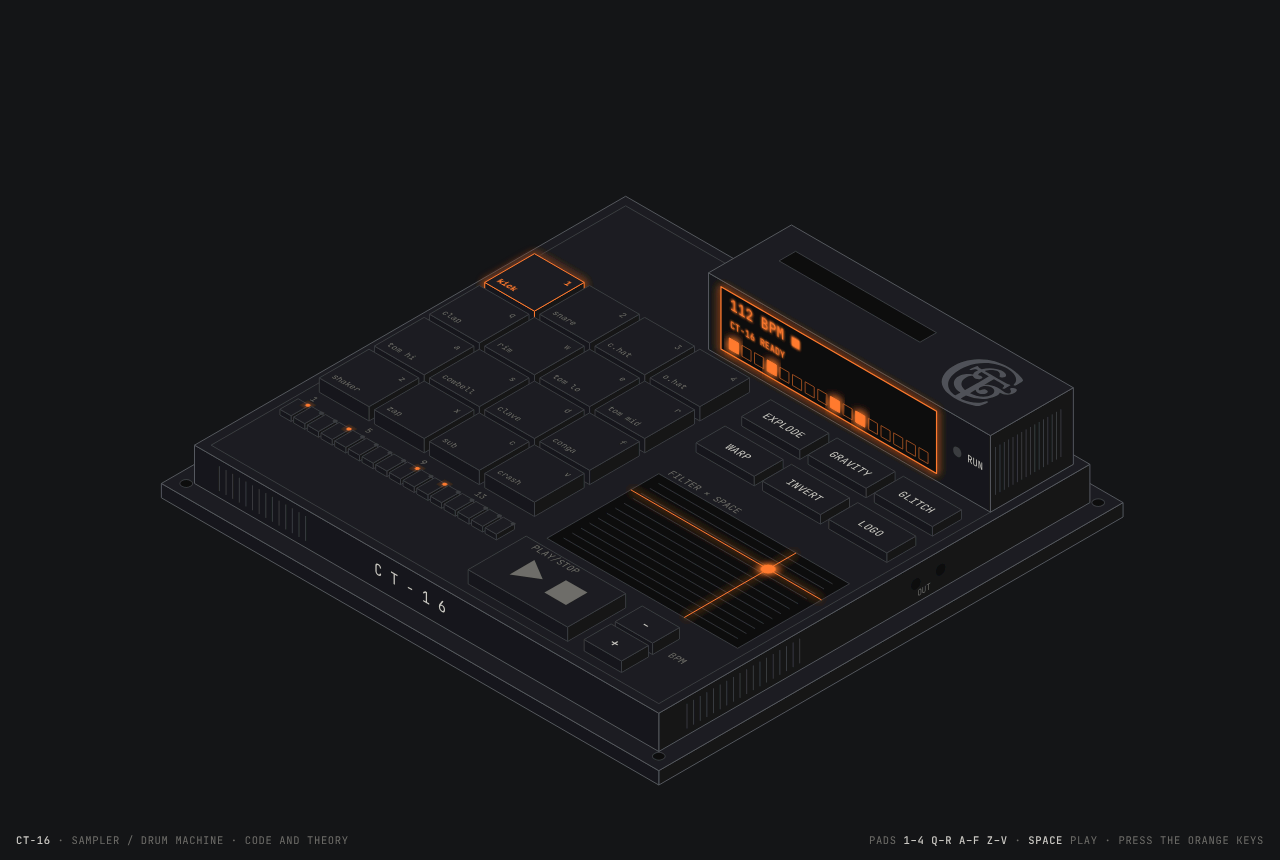
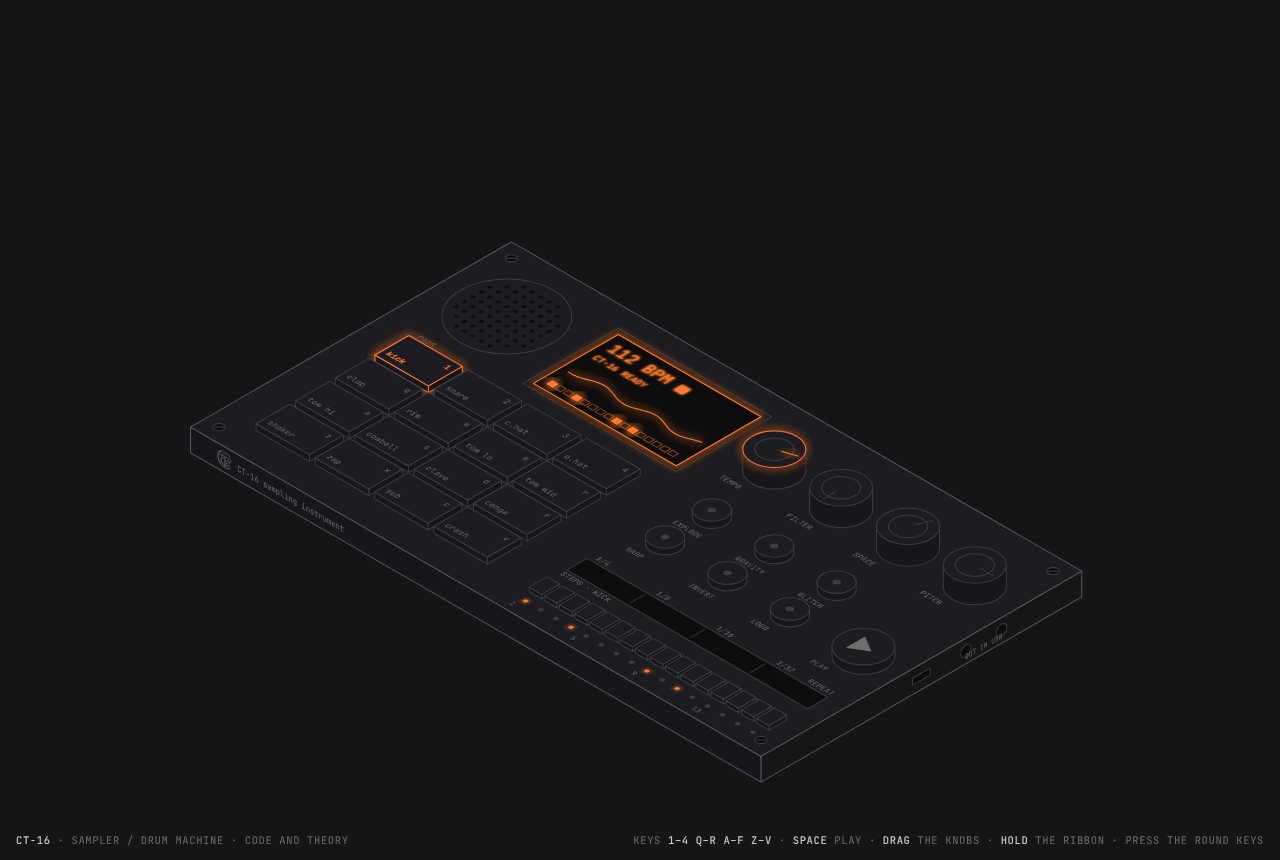
Redesign CT-16 as a thin slab instrument
Four large cylindrical encoders (tempo, filter, space, pitch) with drag
control, flat key grid, inset screen with live oscilloscope, dot-field
speaker, round experimental keys, a note-repeat ribbon and a separate
step row. Same sounds and experimental functions.

Claude-Session: https://claude.ai/code/session_016YEvjY8Sb1Rc6rgUfMqNYL

diff --git a/ct-16/index.html b/ct-16/index.html
@@ -56,14 +56,16 @@ polygon,polyline,line,path.ln,rect.ln{stroke:var(--line);stroke-width:1;vector-e
     </defs>
     <g id="root" filter="url(#glitch)"><g id="scene"></g></g>
   </svg>
-  <div class="foot"><span><b>CT-16</b> · Sampler / drum machine · Code and Theory</span><span id="hint">Pads <b>1–4 Q–R A–F Z–V</b> · <b>Space</b> play · Press the orange keys</span></div>
+  <div class="foot"><span><b>CT-16</b> · Sampler / drum machine · Code and Theory</span><span id="hint">Keys <b>1–4 Q–R A–F Z–V</b> · <b>Space</b> play · <b>drag</b> the knobs · <b>hold</b> the ribbon · press the round keys</span></div>
 </div>
 
 <script>
 (function(){
-var C=0.8660254, S=0.5, scene=document.getElementById("scene");
+var C=0.8660254, S=0.5, RX=1.2247449, RY=0.7071068, scene=document.getElementById("scene"), svg=document.getElementById("dev");
+svg.setAttribute("viewBox","-72 -52 194 160");
 function P(x,y,z){return [(x-y)*C,(x+y)*S-z]}
-function pts(a){return a.map(function(p){var q=P(p[0],p[1],p[2]);return q[0].toFixed(2)+","+q[1].toFixed(2)}).join(" ")}
+function f2(n){return n.toFixed(2)}
+function pts(a){return a.map(function(p){var q=P(p[0],p[1],p[2]);return f2(q[0])+","+f2(q[1])}).join(" ")}
 function poly(a,cls,extra){return '<polygon class="'+(cls||"")+'" points="'+pts(a)+'" '+(extra||"")+'/>'}
 function box(x,y,z,w,d,h,cls,extra){
   return '<g class="'+(cls||"")+'" '+(extra||"")+'>'+
@@ -71,149 +73,138 @@ function box(x,y,z,w,d,h,cls,extra){
     poly([[x,y+d,z+h],[x+w,y+d,z+h],[x+w,y+d,z],[x,y+d,z]],"ff")+
     poly([[x,y,z+h],[x+w,y,z+h],[x+w,y+d,z+h],[x,y+d,z+h]],"ft")+'</g>';
 }
-function mTop(x,y,z,k){var q=P(x,y,z);return "matrix("+(C*k)+" "+(S*k)+" "+(-C*k)+" "+(S*k)+" "+q[0].toFixed(2)+" "+q[1].toFixed(2)+")"}
-function mFront(x,y,z,k){var q=P(x,y,z);return "matrix("+(C*k)+" "+(S*k)+" 0 "+k+" "+q[0].toFixed(2)+" "+q[1].toFixed(2)+")"}
-function mRight(x,y,z,k){var q=P(x,y,z);return "matrix("+(C*k)+" "+(-S*k)+" 0 "+k+" "+q[0].toFixed(2)+" "+q[1].toFixed(2)+")"}
+/* vertical cylinder: side band, then top ellipse */
+function cyl(cx,cy,z,r,h,cls,extra,topCls){
+  var b=P(cx,cy,z), X=b[0], Yb=b[1], Yt=Yb-h, rx=RX*r, ry=RY*r;
+  return '<g class="'+(cls||"")+'" '+(extra||"")+'>'+
+    '<path class="ln ff" d="M'+f2(X-rx)+' '+f2(Yt)+'L'+f2(X-rx)+' '+f2(Yb)+'A'+f2(rx)+' '+f2(ry)+' 0 0 0 '+f2(X+rx)+' '+f2(Yb)+'L'+f2(X+rx)+' '+f2(Yt)+'Z" style="stroke:var(--line);vector-effect:non-scaling-stroke"/>'+
+    '<ellipse class="ln '+(topCls||"ft")+'" cx="'+f2(X)+'" cy="'+f2(Yt)+'" rx="'+f2(rx)+'" ry="'+f2(ry)+'" style="stroke:var(--line);vector-effect:non-scaling-stroke"/></g>';
+}
+function ell(cx,cy,z,r,cls,style){var b=P(cx,cy,z);return '<ellipse class="'+cls+'" cx="'+f2(b[0])+'" cy="'+f2(b[1])+'" rx="'+f2(RX*r)+'" ry="'+f2(RY*r)+'" style="'+(style||"")+'"/>'}
+function mTop(x,y,z,k){var q=P(x,y,z);return "matrix("+(C*k)+" "+(S*k)+" "+(-C*k)+" "+(S*k)+" "+f2(q[0])+" "+f2(q[1])+")"}
+function mFront(x,y,z,k){var q=P(x,y,z);return "matrix("+(C*k)+" "+(S*k)+" 0 "+k+" "+f2(q[0])+" "+f2(q[1])+")"}
+function mRight(x,y,z,k){var q=P(x,y,z);return "matrix("+(C*k)+" "+(-S*k)+" 0 "+k+" "+f2(q[0])+" "+f2(q[1])+")"}
 function tTop(x,y,z,s,size,anchor,cls){return '<text transform="'+mTop(x,y,z,size/10)+'" font-size="10" text-anchor="'+(anchor||"start")+'" class="'+(cls||"lbl")+'">'+s+'</text>'}
 function tFront(x,y,z,s,size,anchor,cls){return '<text transform="'+mFront(x,y,z,size/10)+'" font-size="10" text-anchor="'+(anchor||"start")+'" class="'+(cls||"lbl")+'">'+s+'</text>'}
 function tRight(x,y,z,s,size,anchor,cls){return '<text transform="'+mRight(x,y,z,size/10)+'" font-size="10" text-anchor="'+(anchor||"start")+'" class="'+(cls||"lbl")+'">'+s+'</text>'}
-function line(a,b,cls){var p=P(a[0],a[1],a[2]),q=P(b[0],b[1],b[2]);return '<line class="'+(cls||"vent")+'" x1="'+p[0].toFixed(2)+'" y1="'+p[1].toFixed(2)+'" x2="'+q[0].toFixed(2)+'" y2="'+q[1].toFixed(2)+'"/>'}
-function dotTop(x,y,z,r,cls){return '<circle class="'+cls+'" r="'+r+'" transform="'+mTop(x,y,z,1)+'"/>'}
-function dotFront(x,y,z,r,cls){return '<circle class="'+cls+'" r="'+r+'" transform="'+mFront(x,y,z,1)+'"/>'}
-function dotRight(x,y,z,r,cls){return '<circle class="'+cls+'" r="'+r+'" transform="'+mRight(x,y,z,1)+'"/>'}
+function line(a,b,cls){var p=P(a[0],a[1],a[2]),q=P(b[0],b[1],b[2]);return '<line class="'+(cls||"vent")+'" x1="'+f2(p[0])+'" y1="'+f2(p[1])+'" x2="'+f2(q[0])+'" y2="'+f2(q[1])+'"/>'}
 
-/* ---------- layout (units) ---------- */
-var BW=120, BD=112, BODY={x:4,y:4,w:112,d:104,z:3,h:8}, TOPZ=11;
-var HOUSE={x:46,y:6,w:68,d:20,z:TOPZ,h:16};
-var PAD={x:8,y:30,s:12,g:1.3,h:3};
+/* ---------- object: a thin slab ---------- */
+var W=128, D=72, H=5, Z=H;
+var KEYS0={x:8,y:31,w:12,d:7.6,g:1.3,h:1.3};
 var NAMES=["kick","snare","c.hat","o.hat","clap","rim","tom lo","tom mid","tom hi","cowbell","clave","conga","shaker","zap","sub","crash"];
 var KEYS="1234qwerasdfzxcv";
+var ENC=[{x:74,lbl:"TEMPO"},{x:89,lbl:"FILTER"},{x:104,lbl:"SPACE"},{x:119,lbl:"PITCH"}], ENCY=15, ENCR=5;
 var FX=[["EXPLODE","explode"],["GRAVITY","gravity"],["GLITCH","glitch"],["WARP","warp"],["INVERT","invert"],["LOGO","logo"]];
-var XY={x:66,y:58,w:46,d:27};
+var SCR={x:30,y:6,w:32,d:19}, RIB={x:70,y:53,w:54,d:4.5}, STEPS={x:70,y:62,w:2.8,g:.6};
 
 /* ---------- state ---------- */
 var st={bpm:112,playing:false,step:-1,sel:0,flash:new Array(16).fill(0),pz:new Array(16).fill(0),pv:new Array(16).fill(0),
-  explode:0,explodeT:0,glitch:0,warp:0,logo:0,xy:[.72,.25],xyOn:false,fxOn:{},msg:"CT-16 READY",msgT:0,dirty:true};
+  explode:0,glitch:0,warp:0,logo:0,enc:[.433,.82,.25,.5],rib:-1,fxOn:{},msg:"CT-16 READY",msgT:performance.now(),dirty:true,scope:null};
 var pat=NAMES.map(function(){return new Array(16).fill(false)});
 [[0,[0,3,8,10]],[1,[4,12]],[2,[0,2,4,6,8,10,12,14]],[3,[14]],[4,[12]],[5,[7]],[14,[0,11]],[13,[15]]].forEach(function(r){r[1].forEach(function(s){pat[r[0]][s]=true})});
 
-/* ---------- drawing ---------- */
 function render(){
-  var e=ease(st.explode), out=[];
-  var off={house:30*e,pads:15*e,fx:21*e,steps:9*e,play:17*e,xy:6*e,body:0};
-  // base plate + screws
-  out.push(box(0,0,0,BW,BD,3,"hi"));
-  [[3,3],[BW-3,3],[3,BD-3],[BW-3,BD-3]].forEach(function(p){out.push(dotTop(p[0],p[1],3,1.1,"deep"));out.push('<circle class="ln" fill="none" r="1.1" transform="'+mTop(p[0],p[1],3,1)+'" style="stroke:var(--line);vector-effect:non-scaling-stroke"/>')});
-  // body
-  out.push(box(BODY.x,BODY.y,BODY.z,BODY.w,BODY.d,BODY.h,"hi"));
-  for(var i=0;i<18;i++)out.push(line([BODY.x+BODY.w,BODY.y+70+i*1.6,4.4],[BODY.x+BODY.w,BODY.y+70+i*1.6,9.6]));
-  for(i=0;i<14;i++)out.push(line([BODY.x+6+i*1.6,BODY.y+BODY.d,4.4],[BODY.x+6+i*1.6,BODY.y+BODY.d,9.6]));
-  out.push(tFront(56,BODY.y+BODY.d,6,"C T - 1 6",3.2,"middle","lbl-ink"));
-  out.push(dotRight(BODY.x+BODY.w,40,7,1.1,"deep")+dotRight(BODY.x+BODY.w,46,7,1.1,"deep"));
-  out.push(tRight(BODY.x+BODY.w,44,4.2,"OUT",1.8,"middle"));
-  // top inset frame
-  out.push(poly([[BODY.x+2,BODY.y+2,TOPZ],[BODY.x+BODY.w-2,BODY.y+2,TOPZ],[BODY.x+BODY.w-2,BODY.y+BODY.d-2,TOPZ],[BODY.x+2,BODY.y+BODY.d-2,TOPZ]],"ft",'style="fill:none"'));
-
-  // housing
-  var hz=HOUSE.z+off.house, H=HOUSE;
-  out.push(box(H.x,H.y,hz,H.w,H.d,H.h,"hi"));
-  out.push(poly([[H.x+6,H.y+5,hz+H.h],[H.x+40,H.y+5,hz+H.h],[H.x+40,H.y+9,hz+H.h],[H.x+6,H.y+9,hz+H.h]],"deep"));
-  out.push('<use href="#ctlogo" class="logo-print" transform="'+mTop(H.x+49,H.y+3.5,hz+H.h,13/874)+'"/>');
-  for(i=0;i<16;i++)out.push(line([H.x+H.w,H.y+3+i*1.05,hz+3],[H.x+H.w,H.y+3+i*1.05,hz+H.h-3]));
-  // screen
-  var sx=H.x+3,sz=hz+1.6,sw=52,sh=13, sy=H.y+H.d;
-  out.push(poly([[sx,sy,sz+sh],[sx+sw,sy,sz+sh],[sx+sw,sy,sz],[sx,sy,sz]],"deep glow",'style="stroke-width:1.2"'));
+  var e=ease(st.explode), o=[], i;
+  var off={keys:13*e,enc:22*e,btn:17*e,steps:9*e,scr:7*e,rib:5*e,spk:4*e};
+  /* slab */
+  o.push(box(0,0,0,W,D,H,"hi"));
+  [[3.2,3.2],[W-3.2,3.2],[3.2,D-3.2],[W-3.2,D-3.2]].forEach(function(p){o.push(ell(p[0],p[1],Z,1,"ln deep","stroke:var(--line);vector-effect:non-scaling-stroke"));o.push(line([p[0]-.6,p[1]+.6,Z],[p[0]+.6,p[1]-.6,Z]))});
+  /* side details */
+  o.push('<g>'+[18,26].map(function(yy){var b=P(W,yy,2.5);return '<circle class="deep" r="1.2" transform="'+mRight(W,yy,2.5,1)+'" style="stroke:var(--line);vector-effect:non-scaling-stroke"/>'}).join("")+'</g>');
+  o.push(poly([[W,34,3.2],[W,38,3.2],[W,38,1.8],[W,34,1.8]],"deep"));
+  o.push(tRight(W,22,.9,"OUT  IN   USB",1.4,"middle"));
+  o.push('<use href="#ctlogo" class="logo-print" transform="'+mFront(6,D,4.1,3.2/874)+'"/>');
+  o.push(tFront(10.5,D,1.7,"CT-16  sampling instrument",1.6,"start"));
+  /* speaker: dot field in a circle */
+  var sx=14, sy=15, sr=9.5, sz=Z+off.spk;
+  o.push(ell(sx,sy,sz,sr+.8,"ln","fill:none;stroke:var(--line);vector-effect:non-scaling-stroke"));
+  for(var gx=-sr;gx<=sr;gx+=1.9)for(var gy=-sr;gy<=sr;gy+=1.9)if(gx*gx+gy*gy<sr*sr*.92)o.push('<circle class="deep" r=".42" transform="'+mTop(sx+gx,sy+gy,sz,1)+'"/>');
+  /* screen */
+  var z2=Z+off.scr, s=SCR;
+  o.push(poly([[s.x-1.2,s.y-1.2,z2],[s.x+s.w+1.2,s.y-1.2,z2],[s.x+s.w+1.2,s.y+s.d+1.2,z2],[s.x-1.2,s.y+s.d+1.2,z2]],"ft"));
+  o.push(poly([[s.x,s.y,z2],[s.x+s.w,s.y,z2],[s.x+s.w,s.y+s.d,z2],[s.x,s.y+s.d,z2]],"deep glow",'style="stroke-width:1.1"'));
   var m=screenText();
-  out.push(tFront(sx+2.2,sy,sz+sh-3.6,m[0],3.1,"start","glowtext"));
-  out.push(tFront(sx+2.2,sy,sz+sh-7.4,m[1],2,"start","glowtext"));
-  for(i=0;i<16;i++){
-    var bx=sx+2+i*3.05, on=pat[st.sel][i], head=st.playing&&st.step===i;
-    out.push(poly([[bx,sy,sz+3.3],[bx+2.2,sy,sz+3.3],[bx+2.2,sy,sz+1],[bx,sy,sz+1]],"",'style="fill:'+(head?"#FFD7BF":on?"var(--glow)":"none")+';stroke:var(--glow);'+(head||on?"filter:url(#glow)":"opacity:.55")+'"'));
-  }
-  out.push(dotFront(sx+sw+5,sy,sz+7,1,st.playing?"led-on":"led-off"));
-  out.push(tFront(sx+sw+7.4,sy,sz+6.2,"RUN",2.1,"start","lbl-ink"));
-
-  // XY touch surface
-  var xz=TOPZ+.05+off.xy;
-  out.push(poly([[XY.x,XY.y,xz],[XY.x+XY.w,XY.y,xz],[XY.x+XY.w,XY.y+XY.d,xz],[XY.x,XY.y+XY.d,xz]],"deep",'data-act="xy"'));
-  for(i=1;i<13;i++){var yy=XY.y+i*XY.d/13;out.push(line([XY.x+2,yy,xz],[XY.x+XY.w-2,yy,xz],"hatch"))}
-  var cx=XY.x+st.xy[0]*XY.w, cy=XY.y+st.xy[1]*XY.d;
-  out.push(line([cx,XY.y,xz],[cx,XY.y+XY.d,xz],"vent glow"));
-  out.push(line([XY.x,cy,xz],[XY.x+XY.w,cy,xz],"vent glow"));
-  out.push(dotTop(cx,cy,xz,1.3,"led-on"));
-  out.push(tTop(XY.x+1,XY.y-1,xz,"FILTER × SPACE",2,"start"));
-
-  // FX keys
-  FX.forEach(function(f,k){
-    var c=k%3,r=Math.floor(k/3), x=66+c*16, y=31+r*11, z=TOPZ+off.fx+(st.fxOn[f[1]]?-.6:0);
-    out.push(box(x,y,z,14,7,2,st.fxOn[f[1]]?"act":"",'data-act="fx" data-fx="'+f[1]+'"'));
-    out.push(tTop(x+7,y+4.6,z+2,f[0],2.2,"middle",st.fxOn[f[1]]?"glowtext":"lbl-ink"));
-  });
-
-  // play + tempo
-  var pz=TOPZ+off.play;
-  out.push(box(66,90,pz+(st.playing?-.5:0),24,14,3,st.playing?"act":"",'data-act="play"'));
-  out.push('<g transform="'+mTop(72,97,pz+3+(st.playing?-.5:0),1)+'"><polygon points="0,-3 5,0 0,3" style="fill:'+(st.playing?"var(--glow)":"var(--muted)")+';stroke:none"/><rect x="8" y="-2.6" width="5.2" height="5.2" style="fill:var(--muted)"/></g>');
-  out.push(tTop(66,89,pz,"PLAY/STOP",2,"start"));
-  out.push(box(94,90,pz,9,6.5,2.4,"",'data-act="tempo" data-d="-4"'));
-  out.push(box(94,97.5,pz,9,6.5,2.4,"",'data-act="tempo" data-d="4"'));
-  out.push(tTop(98.5,94.6,pz+2.4,"−",3,"middle","lbl-ink"));
-  out.push(tTop(98.5,102.1,pz+2.4,"+",3,"middle","lbl-ink"));
-  out.push(tTop(105,95,pz,"BPM",2,"start"));
-
-  // pads (back to front)
-  for(var r=0;r<4;r++)for(var c=0;c<4;c++){
-    var n=r*4+c, x=PAD.x+c*(PAD.s+PAD.g), y=PAD.y+r*(PAD.s+PAD.g), z=TOPZ+off.pads*(1+r*.25)+st.pz[n], cls=(n===st.sel?"sel":"");
-    out.push(box(x,y,z,PAD.s,PAD.s,PAD.h,cls,'data-act="pad" data-n="'+n+'"'));
-    if(st.flash[n]>0.02)out.push(poly([[x,y,z+PAD.h],[x+PAD.s,y,z+PAD.h],[x+PAD.s,y+PAD.s,z+PAD.h],[x,y+PAD.s,z+PAD.h]],"",'style="fill:var(--glow);opacity:'+(st.flash[n]*.55).toFixed(2)+';stroke:var(--glow);filter:url(#glow);pointer-events:none"'));
-    out.push(tTop(x+1.2,y+PAD.s-1.6,z+PAD.h,NAMES[n],1.75,"start",n===st.sel?"glowtext":"lbl"));
-    out.push(tTop(x+PAD.s-1.2,y+2.8,z+PAD.h,KEYS[n],1.75,"end",n===st.sel?"glowtext":"lbl"));
-  }
-  // steps
-  var tz=TOPZ+off.steps;
-  for(i=0;i<16;i++){
-    var x0=PAD.x+i*3.3, on2=pat[st.sel][i], hd=st.playing&&st.step===i;
-    out.push(box(x0,87,tz,2.7,4.4,1.2,"",'data-act="step" data-s="'+i+'"'));
-    out.push(dotTop(x0+1.35,86,tz,.45,hd?"led-head":on2?"led-on":"led-off"));
-    if(i%4===0)out.push(tTop(x0+.3,84.6,tz,String(i+1),1.8,"start"));
-  }
-
-  // logo hologram
-  if(st.logo>0.01){
-    var L=ease(Math.min(1,st.logo*1.4)), lz=hz+H.h+4+18*L, k=34/874;
-    out.push('<g style="opacity:'+Math.min(1,st.logo*2).toFixed(2)+'">'+
-      '<use href="#ctlogo" transform="'+mFront(H.x+17,H.y+10,lz+34,k)+'" style="fill:var(--glow);fill-opacity:.16;stroke:var(--glow);stroke-width:1.2;vector-effect:non-scaling-stroke;filter:url(#glow)"/>'+
-      poly([[H.x+15,H.y+10,hz+H.h],[H.x+53,H.y+10,hz+H.h],[H.x+53,H.y+10,lz+36],[H.x+15,H.y+10,lz+36]],"",'style="fill:var(--glow);opacity:.05;stroke:none"')+'</g>');
-  }
-  scene.innerHTML=out.join("");
+  o.push(tTop(s.x+1.6,s.y+4.4,z2,m[0],3.2,"start","glowtext"));
+  o.push(tTop(s.x+1.6,s.y+7.6,z2,m[1],1.75,"start","glowtext"));
+  for(i=0;i<16;i++){var bx=s.x+1.6+i*1.8,on=pat[st.sel][i],hd=st.playing&&st.step===i;
+    o.push(poly([[bx,s.y+16.4,z2],[bx+1.3,s.y+16.4,z2],[bx+1.3,s.y+17.6,z2],[bx,s.y+17.6,z2]],"",'style="fill:'+(hd?"#FFD7BF":on?"var(--glow)":"none")+';stroke:var(--glow);'+(hd||on?"filter:url(#glow)":"opacity:.5")+'"'))}
+  var sc=st.scope, pl=[];
+  for(i=0;i<48;i++){var v=sc?sc[i]:Math.sin(i/3+performance.now()/400)*.08;pl.push([s.x+1.6+i*(s.w-3.2)/47,s.y+12.2-Math.max(-3,Math.min(3,v*9)),z2])}
+  o.push('<polyline points="'+pts(pl)+'" style="fill:none;stroke:var(--glow);stroke-width:1.1;vector-effect:non-scaling-stroke;filter:url(#glow)"/>');
+  /* ribbon */
+  var rz=Z+off.rib;
+  o.push(poly([[RIB.x,RIB.y,rz],[RIB.x+RIB.w,RIB.y,rz],[RIB.x+RIB.w,RIB.y+RIB.d,rz],[RIB.x,RIB.y+RIB.d,rz]],"deep",'data-act="rib"'));
+  for(i=1;i<4;i++)o.push(line([RIB.x+i*RIB.w/4,RIB.y+.6,rz],[RIB.x+i*RIB.w/4,RIB.y+RIB.d-.6,rz],"hatch"));
+  ["1/4","1/8","1/16","1/32"].forEach(function(t,k){o.push(tTop(RIB.x+k*RIB.w/4+1,RIB.y-.7,rz,t,1.5,"start"))});
+  o.push(tTop(RIB.x+RIB.w,RIB.y-.7,rz,"REPEAT",1.5,"end"));
+  if(st.rib>=0){var rx=RIB.x+st.rib*RIB.w;o.push(line([rx,RIB.y,rz],[rx,RIB.y+RIB.d,rz],"vent glow"));o.push(poly([[RIB.x,RIB.y,rz],[rx,RIB.y,rz],[rx,RIB.y+RIB.d,rz],[RIB.x,RIB.y+RIB.d,rz]],"",'style="fill:var(--glow);opacity:.12;stroke:none"'))}
+  /* labels printed on the slab */
+  o.push(tTop(8,29.4,Z,"PADS",1.5,"start"));
+  o.push(tTop(70,59.2,Z,"STEPS · "+NAMES[st.sel].toUpperCase(),1.5,"start"));
+  /* raised parts, back to front */
+  var items=[];
+  ENC.forEach(function(en,k){items.push({k:en.x+ENCY,f:function(){
+    var z=Z+off.enc, h=4.2, a=-Math.PI*.75+st.enc[k]*Math.PI*1.5, hot=k===0;
+    var g=cyl(en.x,ENCY,z,ENCR,h,"",'data-act="enc" data-i="'+k+'"',hot?"ft glowring":"ft");
+    g+=ell(en.x,ENCY,z+h,ENCR*.62,"","fill:none;stroke:var(--line);vector-effect:non-scaling-stroke;pointer-events:none");
+    var p0=[en.x+Math.cos(a)*ENCR*.25,ENCY+Math.sin(a)*ENCR*.25,z+h],p1=[en.x+Math.cos(a)*ENCR*.86,ENCY+Math.sin(a)*ENCR*.86,z+h];
+    g+=line(p0,p1,hot?"vent glow":"vent");
+    if(hot)g=g.replace('class="ln ft glowring"','class="ln ft" style="stroke:var(--glow);vector-effect:non-scaling-stroke;filter:url(#glow)"');
+    g+=tTop(en.x-ENCR,ENCY+ENCR+2.6,Z,en.lbl,1.5,"start");
+    return g}})});
+  FX.forEach(function(f,k){var c=k%3,r=Math.floor(k/3),x=76+c*14,y=31+r*10.5;items.push({k:x+y,f:function(){
+    var on=st.fxOn[f[1]], z=Z+off.btn+(on?-.5:0);
+    var g=cyl(x,y,z,3.1,1.4,on?"act":"",'data-act="fx" data-fx="'+f[1]+'"',on?"ft":"ft");
+    if(on)g+=ell(x,y,z+1.4,3.1,"","fill:var(--glow);opacity:.25;stroke:var(--glow);vector-effect:non-scaling-stroke;filter:url(#glow);pointer-events:none");
+    g+=ell(x,y,z+1.4,.7,"",on?"fill:var(--glow);filter:url(#glow)":"fill:var(--line)");
+    g+=tTop(x-3.4,y+5.6,Z,f[0],1.45,"start",on?"glowtext":"lbl");
+    return g}})});
+  items.push({k:120+41,f:function(){var z=Z+off.btn+(st.playing?-.5:0),g=cyl(120,41,z,5,1.8,st.playing?"act":"",'data-act="play"');
+    g+='<g transform="'+mTop(118.2,41,z+1.8,1)+'" style="pointer-events:none"><polygon points="0,-2.2 3.6,0 0,2.2" style="fill:'+(st.playing?"var(--glow)":"var(--muted)")+';stroke:none;'+(st.playing?"filter:url(#glow)":"")+'"/></g>';
+    g+=tTop(115,48.2,Z,"PLAY",1.45,"start",st.playing?"glowtext":"lbl");return g}});
+  for(var r=0;r<4;r++)for(var c=0;c<4;c++)(function(r,c){var n=r*4+c,x=KEYS0.x+c*(KEYS0.w+KEYS0.g),y=KEYS0.y+r*(KEYS0.d+KEYS0.g);items.push({k:x+y+6,f:function(){
+    var z=Z+off.keys*(1+r*.3)+st.pz[n], sel=n===st.sel, g=box(x,y,z,KEYS0.w,KEYS0.d,KEYS0.h,sel?"sel":"",'data-act="pad" data-n="'+n+'"');
+    if(st.flash[n]>.02)g+=poly([[x,y,z+KEYS0.h],[x+KEYS0.w,y,z+KEYS0.h],[x+KEYS0.w,y+KEYS0.d,z+KEYS0.h],[x,y+KEYS0.d,z+KEYS0.h]],"",'style="fill:var(--glow);opacity:'+(st.flash[n]*.55).toFixed(2)+';stroke:var(--glow);filter:url(#glow);pointer-events:none"');
+    g+=tTop(x+1,y+KEYS0.d-1.3,z+KEYS0.h,NAMES[n],1.6,"start",sel?"glowtext":"lbl");
+    g+=tTop(x+KEYS0.w-1,y+2.4,z+KEYS0.h,KEYS[n],1.6,"end",sel?"glowtext":"lbl");
+    return g}})})(r,c);
+  for(i=0;i<16;i++)(function(i){var x=STEPS.x+i*(STEPS.w+STEPS.g);items.push({k:x+STEPS.y,f:function(){
+    var z=Z+off.steps,on=pat[st.sel][i],hd=st.playing&&st.step===i;
+    var g=box(x,STEPS.y,z,STEPS.w,4,.9,"",'data-act="step" data-s="'+i+'"');
+    g+='<circle class="'+(hd?"led-head":on?"led-on":"led-off")+'" r=".45" transform="'+mTop(x+1.4,STEPS.y+6.2,Z,1)+'" style="pointer-events:none"/>';
+    if(i%4===0)g+=tTop(x,STEPS.y+8.6,Z,String(i+1),1.4,"start");
+    return g}})})(i);
+  items.sort(function(a,b){return a.k-b.k}).forEach(function(it){o.push(it.f())});
+  /* logo hologram */
+  if(st.logo>.01){var L=ease(Math.min(1,st.logo*1.4)),lz=Z+6+16*L,k=30/874;
+    o.push('<g style="opacity:'+Math.min(1,st.logo*2).toFixed(2)+';pointer-events:none"><use href="#ctlogo" transform="'+mFront(s.x+1,s.y+s.d/2,lz+30,k)+'" style="fill:var(--glow);fill-opacity:.16;stroke:var(--glow);stroke-width:1.2;vector-effect:non-scaling-stroke;filter:url(#glow)"/>'+
+      poly([[s.x,s.y+s.d/2,Z],[s.x+s.w,s.y+s.d/2,Z],[s.x+s.w,s.y+s.d/2,lz+32],[s.x,s.y+s.d/2,lz+32]],"",'style="fill:var(--glow);opacity:.05;stroke:none"')+'</g>')}
+  scene.innerHTML=o.join("");
 }
 function screenText(){
-  var now=performance.now();
-  var l1=st.bpm+" BPM "+(st.playing?"▶":"■");
-  var n=pat[st.sel].filter(Boolean).length;
-  var l2=(st.msg&&now-st.msgT<1800)?st.msg:"PAD "+NAMES[st.sel].toUpperCase()+" · "+n+" STEPS";
-  return [l1,l2];
+  var now=performance.now(),n=pat[st.sel].filter(Boolean).length;
+  return [st.bpm+" BPM "+(st.playing?"▶":"■"),(st.msg&&now-st.msgT<1800)?st.msg:NAMES[st.sel].toUpperCase()+" · "+n+" STEPS"];
 }
 function ease(t){return t<.5?2*t*t:1-Math.pow(-2*t+2,2)/2}
 function say(m){st.msg=m;st.msgT=performance.now();st.dirty=true}
 
 /* ---------- audio ---------- */
-var AC,master,crush,lp,dly,fb,wet,nb,pitchMul=1;
+var AC,master,crush,lp,dly,fb,wet,nb,ana,anaBuf,pitchMul=1;
+function pm(){return pitchMul*Math.pow(2,Math.round((st.enc[3]-.5)*24)/12)}
 function audio(){
-  if(AC)return AC; var K=window.AudioContext||window.webkitAudioContext; if(!K)return null;
-  AC=new K(); master=AC.createGain(); master.gain.value=.8;
-  crush=AC.createWaveShaper(); crush.curve=curve(0);
-  lp=AC.createBiquadFilter(); lp.type="lowpass"; lp.Q.value=4;
-  dly=AC.createDelay(1); fb=AC.createGain(); wet=AC.createGain();
-  master.connect(crush); crush.connect(lp); lp.connect(AC.destination);
-  lp.connect(dly); dly.connect(fb); fb.connect(dly); dly.connect(wet); wet.connect(AC.destination);
-  nb=AC.createBuffer(1,AC.sampleRate,AC.sampleRate); var d=nb.getChannelData(0); for(var i=0;i<d.length;i++)d[i]=Math.random()*2-1;
-  applyXY(); return AC;
+  if(AC)return AC;var K=window.AudioContext||window.webkitAudioContext;if(!K)return null;
+  AC=new K();master=AC.createGain();master.gain.value=.8;crush=AC.createWaveShaper();crush.curve=curve(0);
+  lp=AC.createBiquadFilter();lp.type="lowpass";lp.Q.value=4;dly=AC.createDelay(1);fb=AC.createGain();wet=AC.createGain();
+  ana=AC.createAnalyser();ana.fftSize=256;anaBuf=new Float32Array(256);
+  master.connect(crush);crush.connect(lp);lp.connect(ana);ana.connect(AC.destination);lp.connect(dly);dly.connect(fb);fb.connect(dly);dly.connect(wet);wet.connect(AC.destination);
+  nb=AC.createBuffer(1,AC.sampleRate,AC.sampleRate);var d=nb.getChannelData(0);for(var i=0;i<d.length;i++)d[i]=Math.random()*2-1;
+  applyEnc();return AC;
 }
 function curve(bits){var n=1024,c=new Float32Array(n);for(var i=0;i<n;i++){var x=i/(n-1)*2-1;c[i]=bits?Math.round(x*bits)/bits:x}return c}
-function env(g,t,a,p,dcy){g.gain.setValueAtTime(.0001,t);g.gain.exponentialRampToValueAtTime(p,t+a);g.gain.exponentialRampToValueAtTime(.0001,t+dcy)}
-function nz(t,dur,type,f,q,p,a){var s=AC.createBufferSource();s.buffer=nb;var b=AC.createBiquadFilter();b.type=type;b.frequency.value=f*pitchMul;if(q)b.Q.value=q;var g=AC.createGain();env(g,t,a||.002,p,dur);s.connect(b);b.connect(g);g.connect(master);s.start(t);s.stop(t+dur+.05)}
-function ton(t,type,f0,f1,dur,p,sw){var o=AC.createOscillator();o.type=type;o.frequency.setValueAtTime(f0*pitchMul,t);if(f1)o.frequency.exponentialRampToValueAtTime(f1*pitchMul,t+(sw||dur));var g=AC.createGain();env(g,t,.003,p,dur);o.connect(g);g.connect(master);o.start(t);o.stop(t+dur+.05)}
+function env(g,t,a,p,dc){g.gain.setValueAtTime(.0001,t);g.gain.exponentialRampToValueAtTime(p,t+a);g.gain.exponentialRampToValueAtTime(.0001,t+dc)}
+function nz(t,dur,type,f,q,p,a){var s=AC.createBufferSource();s.buffer=nb;var b=AC.createBiquadFilter();b.type=type;b.frequency.value=f*pm();if(q)b.Q.value=q;var g=AC.createGain();env(g,t,a||.002,p,dur);s.connect(b);b.connect(g);g.connect(master);s.start(t);s.stop(t+dur+.05)}
+function ton(t,type,f0,f1,dur,p,sw){var k=pm(),o=AC.createOscillator();o.type=type;o.frequency.setValueAtTime(f0*k,t);if(f1)o.frequency.exponentialRampToValueAtTime(f1*k,t+(sw||dur));var g=AC.createGain();env(g,t,.003,p,dur);o.connect(g);g.connect(master);o.start(t);o.stop(t+dur+.05)}
 function voice(n,t){
   if(!AC)return;
   switch(n){
@@ -235,26 +226,41 @@ function voice(n,t){
     case 15:nz(t,1.3,"highpass",3200,0,.32);nz(t,.6,"bandpass",5200,1,.2);break;
   }
 }
-function applyXY(){if(!AC)return;var t=AC.currentTime;lp.frequency.setTargetAtTime(180*Math.pow(100,st.xy[0]),t,.03);var sp=st.xy[1];dly.delayTime.setTargetAtTime(.09+.28*sp,t,.05);fb.gain.setTargetAtTime(.55*sp,t,.05);wet.gain.setTargetAtTime(.6*sp,t,.05)}
+function applyEnc(){
+  st.bpm=Math.round(60+st.enc[0]*120);
+  if(!AC)return;var t=AC.currentTime;
+  lp.frequency.setTargetAtTime(180*Math.pow(100,st.enc[1]),t,.03);
+  var sp=st.enc[2];dly.delayTime.setTargetAtTime(.09+.28*sp,t,.05);fb.gain.setTargetAtTime(.55*sp,t,.05);wet.gain.setTargetAtTime(.6*sp,t,.05);
+}
+function encMsg(k){var v=st.enc[k];return k===0?st.bpm+" BPM":k===1?"FILTER "+Math.round(v*100)+"%":k===2?"SPACE "+Math.round(v*100)+"%":"PITCH "+(Math.round((v-.5)*24)>0?"+":"")+Math.round((v-.5)*24)}
 
 /* ---------- sequencer ---------- */
 var nextT=0,nStep=0,queue=[],timer=null;
 function sd(){return 60/st.bpm/4}
 function sched(){while(nextT<AC.currentTime+.12){var t=nextT;for(var n=0;n<16;n++)if(pat[n][nStep]){voice(n,t);queue.push({t:t,n:n})}queue.push({t:t,step:nStep});nextT+=sd();nStep=(nStep+1)%16}}
 function play(){if(!audio())return;AC.resume();if(st.playing){st.playing=false;clearInterval(timer);queue=[];st.step=-1;st.dirty=true;return}st.playing=true;nStep=0;nextT=AC.currentTime+.05;timer=setInterval(sched,25);sched();st.dirty=true}
-function hit(n,silentSel){if(audio()){AC.resume();voice(n,AC.currentTime)}st.flash[n]=1;if(!silentSel)st.sel=n;st.dirty=true}
+function hit(n,keepSel){if(audio()){AC.resume();voice(n,AC.currentTime)}st.flash[n]=1;if(!keepSel)st.sel=n;st.dirty=true}
+
+/* ---------- ribbon: note repeat ---------- */
+var ribTimer=null;
+function ribbon(v){
+  st.rib=v; var div=[1,2,4,8][Math.min(3,Math.floor(v*4))], ms=60000/st.bpm/div;
+  clearInterval(ribTimer); hit(st.sel,true); ribTimer=setInterval(function(){hit(st.sel,true)},ms); st.dirty=true;
+}
+function ribOff(){clearInterval(ribTimer);ribTimer=null;st.rib=-1;st.dirty=true}
 
 /* ---------- the strange keys ---------- */
+var anims={};
+function anim(key,to,ms){anims[key]={from:st[key],to:to,t0:performance.now(),ms:ms}}
 function fx(id){
-  audio(); if(AC)AC.resume();
-  var on=!st.fxOn[id];
+  audio();if(AC)AC.resume();var on=!st.fxOn[id];
   if(id==="explode"){st.fxOn.explode=on;say(on?"EXPLODED VIEW":"ASSEMBLED");anim("explode",on?1:0,900)}
   if(id==="gravity"){st.fxOn.gravity=true;say("GRAVITY OFF");for(var i=0;i<16;i++){st.pv[i]=14+Math.random()*22;st.pz[i]=Math.max(st.pz[i],.01)}setTimeout(function(){st.fxOn.gravity=false;st.dirty=true},2600)}
   if(id==="glitch"){st.fxOn.glitch=true;st.glitch=1;say("SIGNAL LOST");if(crush)crush.curve=curve(5);
     var k=0,iv=setInterval(function(){hit(Math.floor(Math.random()*16),true);if(++k>10)clearInterval(iv)},70);
     setTimeout(function(){st.fxOn.glitch=false;if(crush)crush.curve=curve(0);st.dirty=true},1500)}
-  if(id==="warp"){st.fxOn.warp=true;say("TAPE STOP");var b0=st.bpm,t0=performance.now();
-    var iv2=setInterval(function(){var k2=(performance.now()-t0)/1600,dn=k2<.5?1-k2*1.5:.25+(k2-.5)*1.5;dn=Math.min(1,Math.max(.25,dn));pitchMul=dn;st.bpm=Math.round(b0*dn);st.warp=Math.sin(Math.min(1,k2)*Math.PI);st.dirty=true;if(k2>=1){clearInterval(iv2);pitchMul=1;st.bpm=b0;st.warp=0;st.fxOn.warp=false}},30)}
+  if(id==="warp"){st.fxOn.warp=true;say("TAPE STOP");var e0=st.enc[0],t0=performance.now();
+    var iv2=setInterval(function(){var k2=(performance.now()-t0)/1600,dn=k2<.5?1-k2*1.5:.25+(k2-.5)*1.5;dn=Math.min(1,Math.max(.25,dn));pitchMul=dn;st.bpm=Math.round((60+e0*120)*dn);st.warp=Math.sin(Math.min(1,k2)*Math.PI);st.dirty=true;if(k2>=1){clearInterval(iv2);pitchMul=1;applyEnc();st.warp=0;st.fxOn.warp=false}},30)}
   if(id==="invert"){var p=document.documentElement.classList.toggle("paper");st.fxOn.invert=p;say(p?"PAPER MODE":"NIGHT MODE")}
   if(id==="logo"){st.fxOn.logo=true;say("CODE AND THEORY");anim("logo",1,700);
     if(AC){var notes=[0,7,12,16,19,24,19,16],t=AC.currentTime;notes.forEach(function(n,i){ton(t+i*.11,"triangle",261.6*Math.pow(2,n/12),0,.35,.22)})}
@@ -262,51 +268,54 @@ function fx(id){
     setTimeout(function(){anim("logo",0,700);st.fxOn.logo=false},4200)}
   st.dirty=true;
 }
-var anims={};
-function anim(key,to,ms){anims[key]={from:st[key],to:to,t0:performance.now(),ms:ms}}
 
 /* ---------- input ---------- */
-var svg=document.getElementById("dev"), dragXY=false;
+var drag=null;
 function toPlane(e,z){var pt=svg.createSVGPoint();pt.x=e.clientX;pt.y=e.clientY;var q=pt.matrixTransform(scene.getScreenCTM().inverse());var a=q.x/C,b=(q.y+z)/S;return [(a+b)/2,(b-a)/2]}
-function setXY(e){var p=toPlane(e,TOPZ+ease(st.explode)*6);st.xy=[Math.min(1,Math.max(0,(p[0]-XY.x)/XY.w)),Math.min(1,Math.max(0,(p[1]-XY.y)/XY.d))];applyXY();st.dirty=true}
+function ribX(e){var p=toPlane(e,Z+ease(st.explode)*5);return Math.min(.999,Math.max(0,(p[0]-RIB.x)/RIB.w))}
 svg.addEventListener("pointerdown",function(e){
   var g=e.target.closest("[data-act]");if(!g)return;var a=g.getAttribute("data-act");
   if(a==="pad")hit(+g.getAttribute("data-n"));
   else if(a==="step"){var s=+g.getAttribute("data-s");pat[st.sel][s]=!pat[st.sel][s];st.dirty=true}
   else if(a==="play")play();
-  else if(a==="tempo"){st.bpm=Math.max(60,Math.min(180,st.bpm+(+g.getAttribute("data-d"))));say(st.bpm+" BPM")}
   else if(a==="fx")fx(g.getAttribute("data-fx"));
-  else if(a==="xy"){audio();dragXY=true;svg.setPointerCapture(e.pointerId);setXY(e)}
+  else if(a==="enc"){audio();drag={kind:"enc",i:+g.getAttribute("data-i"),y:e.clientY,v:st.enc[+g.getAttribute("data-i")],moved:false};svg.setPointerCapture(e.pointerId)}
+  else if(a==="rib"){drag={kind:"rib"};svg.setPointerCapture(e.pointerId);ribbon(ribX(e))}
 });
-svg.addEventListener("pointermove",function(e){if(dragXY)setXY(e)});
-svg.addEventListener("pointerup",function(){dragXY=false});
-window.addEventListener("keydown",function(e){
-  if(e.repeat)return; var i=KEYS.indexOf(e.key.toLowerCase());
-  if(i>=0){hit(i);return}
-  if(e.code==="Space"){e.preventDefault();play()}
+svg.addEventListener("pointermove",function(e){
+  if(!drag)return;
+  if(drag.kind==="enc"){var dy=drag.y-e.clientY;if(Math.abs(dy)>3)drag.moved=true;st.enc[drag.i]=Math.min(1,Math.max(0,drag.v+dy/180));applyEnc();say(encMsg(drag.i))}
+  if(drag.kind==="rib"){var v=ribX(e);if(Math.floor(v*4)!==Math.floor(st.rib*4))ribbon(v);else{st.rib=v;st.dirty=true}}
 });
+svg.addEventListener("pointerup",function(){
+  if(drag&&drag.kind==="enc"&&!drag.moved){st.enc[drag.i]=(Math.round(st.enc[drag.i]*8)+1)%9/8;applyEnc();say(encMsg(drag.i))}
+  if(drag&&drag.kind==="rib")ribOff();
+  drag=null;
+});
+window.addEventListener("keydown",function(e){if(e.repeat)return;var i=KEYS.indexOf(e.key.toLowerCase());if(i>=0){hit(i);return}if(e.code==="Space"){e.preventDefault();play()}});
 
 /* ---------- loop ---------- */
 var gd=document.getElementById("gd"),gt=document.getElementById("gt"),root=document.getElementById("root"),last=performance.now();
 function frame(now){
   var dt=Math.min(.05,(now-last)/1000);last=now;var busy=false;
   for(var k in anims){var a=anims[k],p=Math.min(1,(now-a.t0)/a.ms);st[k]=a.from+(a.to-a.from)*p;busy=true;if(p>=1)delete anims[k]}
-  if(AC)while(queue.length&&queue[0].t<=AC.currentTime){var q=queue.shift();if(q.step!==undefined)st.step=q.step;else st.flash[q.n]=1;busy=true}
+  if(AC){while(queue.length&&queue[0].t<=AC.currentTime){var q=queue.shift();if(q.step!==undefined)st.step=q.step;else st.flash[q.n]=1;busy=true}
+    ana.getFloatTimeDomainData(anaBuf);var sc=[];for(var j=0;j<48;j++)sc.push(anaBuf[j*5]);st.scope=sc;}
   for(var i=0;i<16;i++){
     if(st.flash[i]>0){st.flash[i]=Math.max(0,st.flash[i]-dt*3.2);busy=true}
     if(st.pz[i]>0||st.pv[i]>0){st.pv[i]-=70*dt;st.pz[i]+=st.pv[i]*dt;if(st.pz[i]<=0){st.pz[i]=0;if(st.pv[i]<-8){hit(i,true);st.pv[i]=-st.pv[i]*.45}else st.pv[i]=0}busy=true}
   }
   if(st.glitch>0){st.glitch=Math.max(0,st.glitch-dt*.7);gd.setAttribute("scale",(st.glitch*14*Math.random()).toFixed(1));gt.setAttribute("seed",Math.floor(Math.random()*99));busy=true}else gd.setAttribute("scale","0");
   root.setAttribute("transform",st.warp?"skewX("+(Math.sin(now/90)*6*st.warp).toFixed(2)+") scale(1,"+(1-.12*st.warp).toFixed(3)+")":"");
-  if(st.warp)busy=true;
-  if(st.msg&&now-st.msgT<1900)busy=true;
+  if(st.warp||st.playing||st.rib>=0||(st.msg&&now-st.msgT<1900)||!AC)busy=true;
   if(busy||st.dirty){render();st.dirty=false}
   requestAnimationFrame(frame);
 }
-render();
+applyEnc();render();
 if(document.fonts&&document.fonts.ready)document.fonts.ready.then(function(){st.dirty=true});
 requestAnimationFrame(frame);
 })();
 </script>
+
 </body>
 </html>
